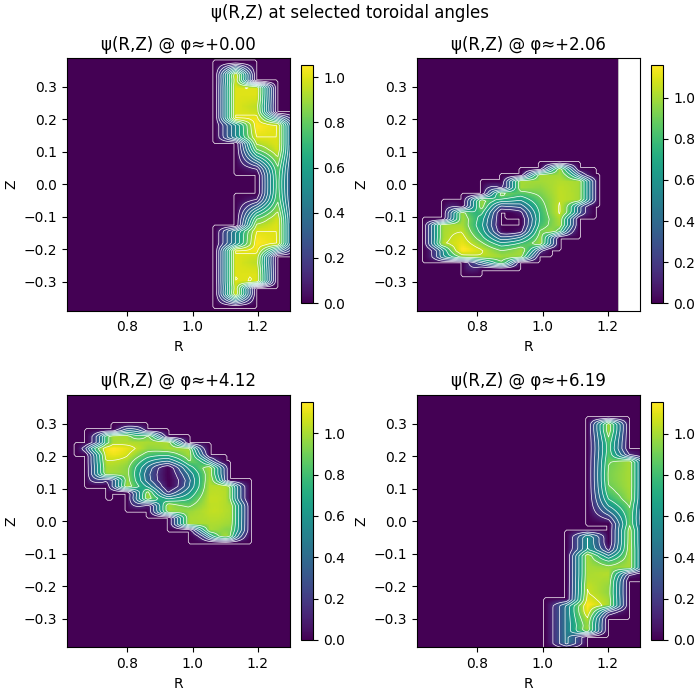
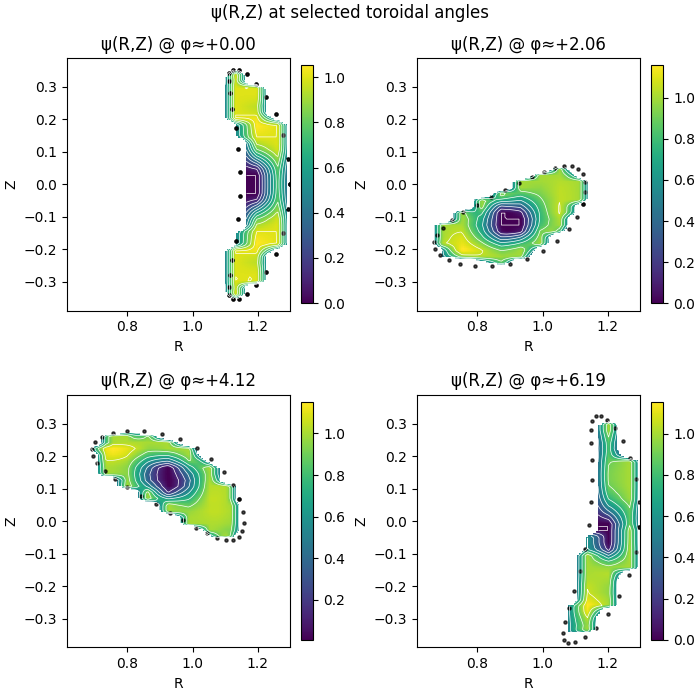
Enhance build_psi_RZphi_volume and plot_psi_maps_RZ_panels functions to include masking for points outside the surface; update related plotting logic for improved visualization.

diff --git a/MFS/solve_flux_psi_fci.py b/MFS/solve_flux_psi_fci.py
@@ -130,52 +130,77 @@ def axis_band_mask(P_axis, Xq, rad):
     return (d[:,0] < rad)
 
 # ----------------------------- Plotting utilities ---------------------------- #
-def build_psi_RZphi_volume(psi3, xs, ys, zs, P, nR=128, nphi=64, nZ=128):
+def build_psi_RZphi_volume(psi3, xs, ys, zs, P, inside3,
+                           nR=128, nphi=64, nZ=128):
     """
     Construct ψ(R,φ,Z) on a regular cylindrical grid using trilinear interpolation
-    from ψ(x,y,z) defined on (xs,ys,zs).
-
-    Returns
-    -------
-    psi_RZphi : array (nR, nphi, nZ)
-    Rs        : array (nR,)
-    phis      : array (nphi,)
-    Zs        : array (nZ,)
+    from ψ(x,y,z) defined on (xs,ys,zs). Points outside the surface
+    are masked as NaN using the inside_mask.
     """
-    # Use boundary points to define R,Z ranges
     Rb = np.sqrt(P[:, 0]**2 + P[:, 1]**2)
     Rs = np.linspace(Rb.min(), Rb.max(), nR)
     Zs = np.linspace(P[:, 2].min(), P[:, 2].max(), nZ)
-    phis = np.linspace(0.0, 2.0 * np.pi, nphi, endpoint=False)
+    phis = np.linspace(0.0, 2.0*np.pi, nphi, endpoint=False)
 
-    interp = RegularGridInterpolator((xs, ys, zs), psi3,
-                                     bounds_error=False, fill_value=np.nan)
+    interp_psi = RegularGridInterpolator(
+        (xs, ys, zs), psi3,
+        bounds_error=False, fill_value=np.nan
+    )
+    interp_inside = RegularGridInterpolator(
+        (xs, ys, zs), inside3.astype(float),
+        bounds_error=False, fill_value=0.0
+    )
 
     psi_RZphi = np.zeros((nR, nphi, nZ))
+    mask_RZphi = np.zeros((nR, nphi, nZ), dtype=bool)
+
     for j, phi in enumerate(phis):
-        # Cylindrical grid at fixed phi
         R_grid, Z_grid = np.meshgrid(Rs, Zs, indexing="ij")
         X = R_grid * np.cos(phi)
         Y = R_grid * np.sin(phi)
         pts = np.stack([X.ravel(), Y.ravel(), Z_grid.ravel()], axis=-1)
-        vals = interp(pts).reshape(nR, nZ)
-        psi_RZphi[:, j, :] = vals
 
-    return psi_RZphi, Rs, phis, Zs
+        vals = interp_psi(pts).reshape(nR, nZ)
+        inside_vals = interp_inside(pts).reshape(nR, nZ) > 0.5
 
-def plot_psi_maps_RZ_panels(psi3, Rs, phis, Zs, jj_list, title="ψ(R,Z)"):
+        psi_RZphi[:, j, :] = np.where(inside_vals, vals, np.nan)
+        mask_RZphi[:, j, :] = inside_vals
+
+    return psi_RZphi, Rs, phis, Zs, mask_RZphi
+
+def plot_psi_maps_RZ_panels(psi_RZphi, Rs, phis, Zs, jj_list,
+                            Rb=None, Zb=None, phi_b=None,
+                            title="ψ(R,Z)"):
     fig, axa = plt.subplots(2, 2, figsize=(7, 7), constrained_layout=True)
     axa = axa.ravel()
-    Rmin, Rmax = float(np.min(Rs)), float(np.max(Rs))
-    Zmin, Zmax = float(np.min(Zs)), float(np.max(Zs))
+    Rmin, Rmax = float(np.nanmin(Rs)), float(np.nanmax(Rs))
+    Zmin, Zmax = float(np.nanmin(Zs)), float(np.nanmax(Zs))
     extent = [Rmin, Rmax, Zmin, Zmax]
+
     for kk, jj in enumerate(jj_list):
-        im = axa[kk].imshow(psi3[:, jj, :].T, origin='lower', aspect='equal', extent=extent)
-        axa[kk].contour(psi3[:, jj, :].T, levels=10, colors='white', linewidths=0.5, alpha=1.0, extent=extent)
+        psi_slice = psi_RZphi[:, jj, :].T  # shape (nZ, nR)
+        im = axa[kk].imshow(
+            psi_slice,
+            origin='lower',
+            aspect='equal',
+            extent=extent
+        )
+        axa[kk].contour(
+            Rs, Zs, psi_RZphi[:, jj, :].T,
+            levels=10, colors='white', linewidths=0.5, alpha=1.0
+        )
         axa[kk].set_title(f"{title} @ φ≈{phis[jj]:+.2f}")
         axa[kk].set_xlabel("R"); axa[kk].set_ylabel("Z")
         plt.colorbar(im, ax=axa[kk], shrink=0.85)
+
+        # Overlay boundary points near this φ-slice
+        if Rb is not None and phi_b is not None and Zb is not None:
+            dphi = np.abs(np.angle(np.exp(1j*(phi_b - phis[jj]))))
+            mask = dphi < (np.pi / len(phis))   # within half a toroidal cell
+            axa[kk].scatter(Rb[mask], Zb[mask], s=5, c='k', alpha=0.7)
+
     return fig
+
 
 def plot_3d_axis_boundary(P, axis_pts, psi, Xq, inside_mask):
     """
@@ -1171,14 +1196,20 @@ def solve_fci(npz_file: str, grid_N: int = 64, eps: float = 1e-3, band_h: float 
         # --- R–Z–φ panels ---
         try:
             psi3 = psi.reshape(nx, ny, nz)
-            psi_RZphi, Rs_cyl, phis_cyl, Zs_cyl = build_psi_RZphi_volume(
-                psi3, xs, ys, zs, P, nR=128, nphi=64, nZ=128
+            inside3 = inside_mask.reshape(nx, ny, nz)
+            psi_RZphi, Rs_cyl, phis_cyl, Zs_cyl, mask_RZphi = build_psi_RZphi_volume(
+                psi3, xs, ys, zs, P, inside3, nR=128, nphi=64, nZ=128
             )
 
             # Choose a few φ indices for panels
-            jj_list = np.linspace(0, len(phis_cyl) - 1, 4, dtype=int)
+            Rb = np.sqrt(P[:,0]**2 + P[:,1]**2)
+            phi_b = np.mod(np.arctan2(P[:,1], P[:,0]), 2*np.pi)
+            Zb = P[:,2]
+
+            jj_list = np.linspace(0, len(phis_cyl)-1, 4, dtype=int)
             figRZ = plot_psi_maps_RZ_panels(
-                psi_RZphi, Rs_cyl, phis_cyl, Zs_cyl, jj_list, title="ψ(R,Z)"
+                psi_RZphi, Rs_cyl, phis_cyl, Zs_cyl, jj_list,
+                Rb=Rb, Zb=Zb, phi_b=phi_b, title="ψ(R,Z)"
             )
             figRZ.suptitle("ψ(R,Z) at selected toroidal angles")
             if save_figures:
@@ -1228,12 +1259,6 @@ if __name__ == "__main__":
     nfp_default = 2
     if 'QH' in default_solution:
         nfp_default = 4
-
-READ
-# Ok, let's now take the next step and:
-# - instead of assuming D is constant per cell and using a cell-center scheme, solve the exact divergence-form operator.
-# - Get a boringly monotone behavor so that the solution does not overshoot and is monotonically increasing from 0 to 1 from axis to the boundary.
-# - is there any way to have a box in cylindrical coordinates? Seems like we should be wasting a lot of space by using a cartesian box in such a torus
 
     parser = argparse.ArgumentParser(description="Solve field–aligned flux function ψ via FCI diffusion.")
     parser.add_argument("npz", nargs="?", default=resolve_npz_file_location(default_solution),
